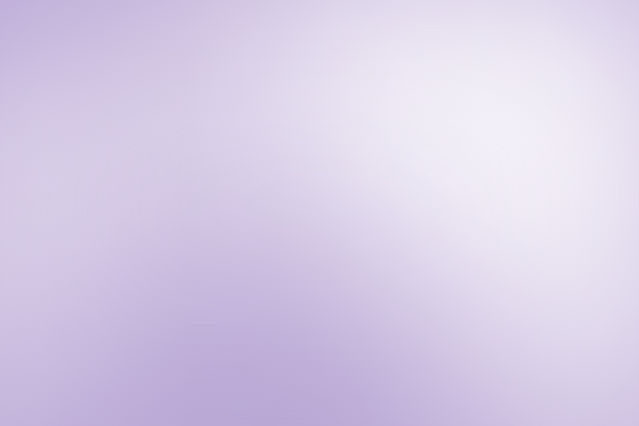
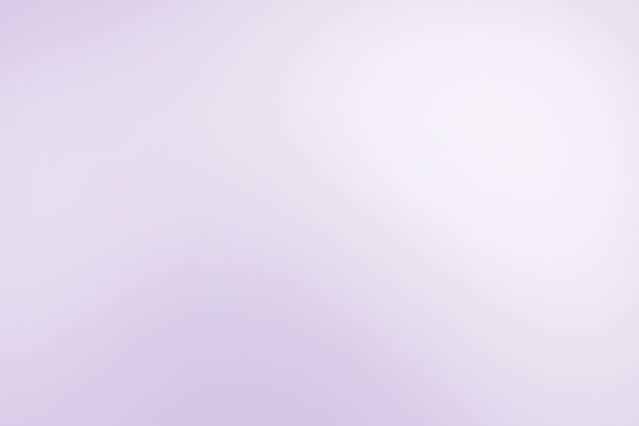
feat: edit css style && modify bkg.png && edit logica.php

Changed region(s): [[0.0, 0.6103, 0.7433, 1.0], [0.0, 0.0, 0.2379, 0.1526]]

diff --git a/ExemploAvançado/index.html b/ExemploAvançado/index.html
@@ -103,39 +103,39 @@
         </main>
 
         <form action="logica.php" method="POST" id="form">
-            <i class="fas fa-paw"></i>
+            <i class="fas fa-paw" style="color: #0056b3; font-size: 4rem;"></i>
 
             <p>O Animal é Mamífero?</p>
-            <select name="pergunta1">
-          <option value="1">Sim</option>
-          <option value="0">Não</option>
-        </select>
+            <div class="toggle-switch">
+                <input class="toggle-input" id="toggle1" type="checkbox" name="pergunta1">
+                <label class="toggle-label" for="toggle1"></label>
+              </div>
 
             <p>O Animal é Quadrúpede?</p>
-            <select name="pergunta2">
-          <option value="1">Sim</option>
-          <option value="0">Não</option>
-        </select>
+            <div class="toggle-switch">
+                <input class="toggle-input" id="toggle2" type="checkbox" name="pergunta2">
+                <label class="toggle-label" for="toggle2"></label>
+              </div>
 
 
             <p>O Animal é Carnívoro?</p>
-            <select name="pergunta3">
-          <option value="1">Sim</option>
-          <option value="0">Não</option>
-        </select>
+            <div class="toggle-switch">
+                <input class="toggle-input" id="toggle3" type="checkbox" name="pergunta3">
+                <label class="toggle-label" for="toggle3"></label>
+              </div>
 
             <p>O Animal é Herbívoro?</p>
-            <select name="pergunta4">
-          <option value="1">Sim</option>
-          <option value="0">Não</option>
-        </select>
+            <div class="toggle-switch">
+                <input class="toggle-input" id="toggle4" type="checkbox" name="pergunta4">
+                <label class="toggle-label" for="toggle4"></label>
+              </div>
 
 
-            <p>O Animal é Voa?</p>
-            <select name="pergunta5">
-          <option value="1">Sim</option>
-          <option value="0">Não</option>
-          </select>
+            <p>O Animal é Voador?</p>
+            <div class="toggle-switch">
+                <input class="toggle-input" id="toggle5" type="checkbox" name="pergunta5">
+                <label class="toggle-label" for="toggle5"></label>
+              </div>
 
 
             </div>

diff --git a/ExemploAvançado/logica.php b/ExemploAvançado/logica.php
@@ -4,22 +4,17 @@
 <div class="quiz">
 <?php
 
-$pergunta1 = $_POST['pergunta1'];
-$pergunta2 = $_POST['pergunta2'];
-$pergunta3 = $_POST['pergunta3'];
-$pergunta4 = $_POST['pergunta4'];
-$pergunta5 = $_POST['pergunta5'];
 $resposta = '';
 
-($pergunta1) ? $resposta = $resposta . '1' : $resposta = $resposta . '0';
+(isset($_POST['pergunta1'])) ? $resposta = $resposta . '1' : $resposta = $resposta . '0';
 
-($pergunta2) ? $resposta = $resposta . '1' : $resposta = $resposta . '0';
+(isset($_POST['pergunta2'])) ? $resposta = $resposta . '1' : $resposta = $resposta . '0';
 
-($pergunta3) ? $resposta = $resposta . '1' : $resposta = $resposta . '0';
+(isset($_POST['pergunta3'])) ? $resposta = $resposta . '1' : $resposta = $resposta . '0';
 
-($pergunta4) ? $resposta = $resposta . '1' : $resposta = $resposta . '0';
+(isset($_POST['pergunta4'])) ? $resposta = $resposta . '1' : $resposta = $resposta . '0';
 
-($pergunta5) ? $resposta = $resposta . '1' : $resposta = $resposta . '0';
+(isset($_POST['pergunta5'])) ? $resposta = $resposta . '1' : $resposta = $resposta . '0';
 
     //LEAO  
 if (bindec($resposta) == 28) {
@@ -32,7 +27,7 @@ if (bindec($resposta) == 28) {
     echo ' <a href="./index.html"><div class="animalBotao"><button class="btn" style="background-color:#52565A; color :white;"><i class="fas fa-paw"></i> Voltar</button></div></a>';
    
     //PAPAGAIO
-} elseif (bindec($resposta) == 22) {
+} elseif (bindec($resposta) == 3) {
     echo '<div class="card"><p class="title"><img src="./assets/img/paraguaio.png" /></p></div>';
     echo ' <a href="./index.html"><div class="animalBotao"><button class="btn" style="background-color:#00C67F; color :white;"><i class="fas fa-paw"></i> Voltar</button></div></a>';
     
@@ -86,7 +81,6 @@ if (bindec($resposta) == 28) {
   
 }
 ?>
-
 
 </div>
 </section>
